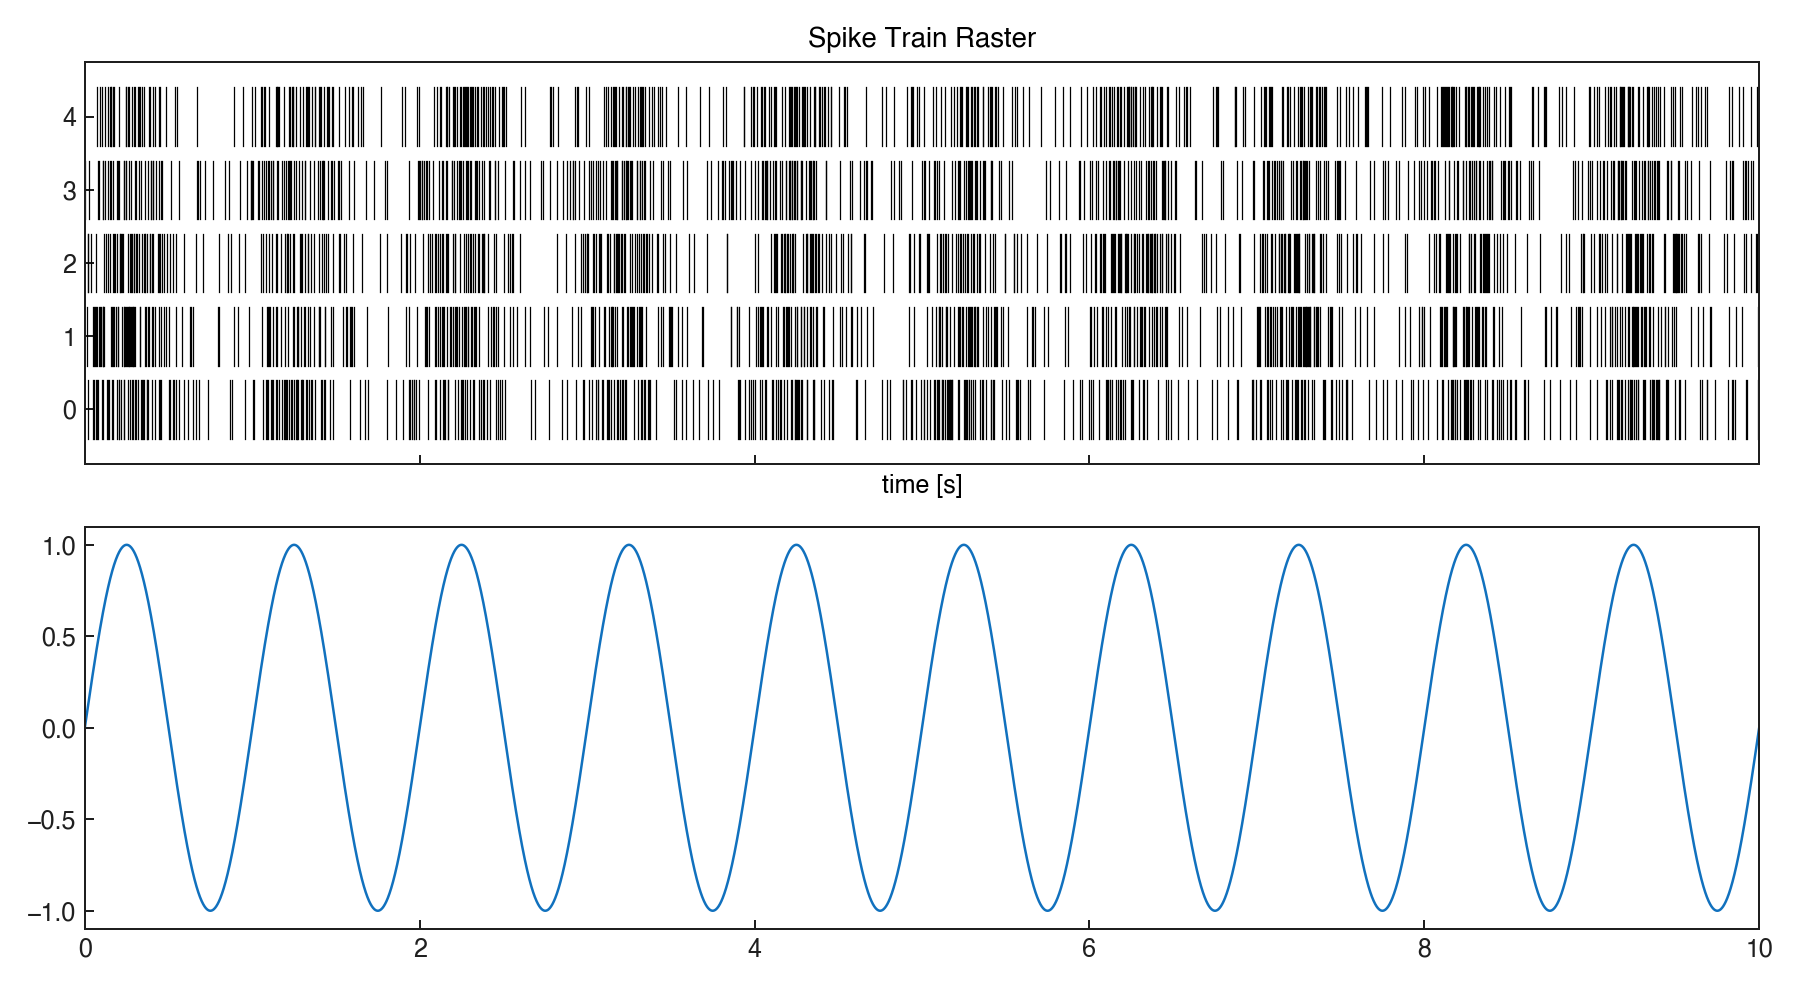
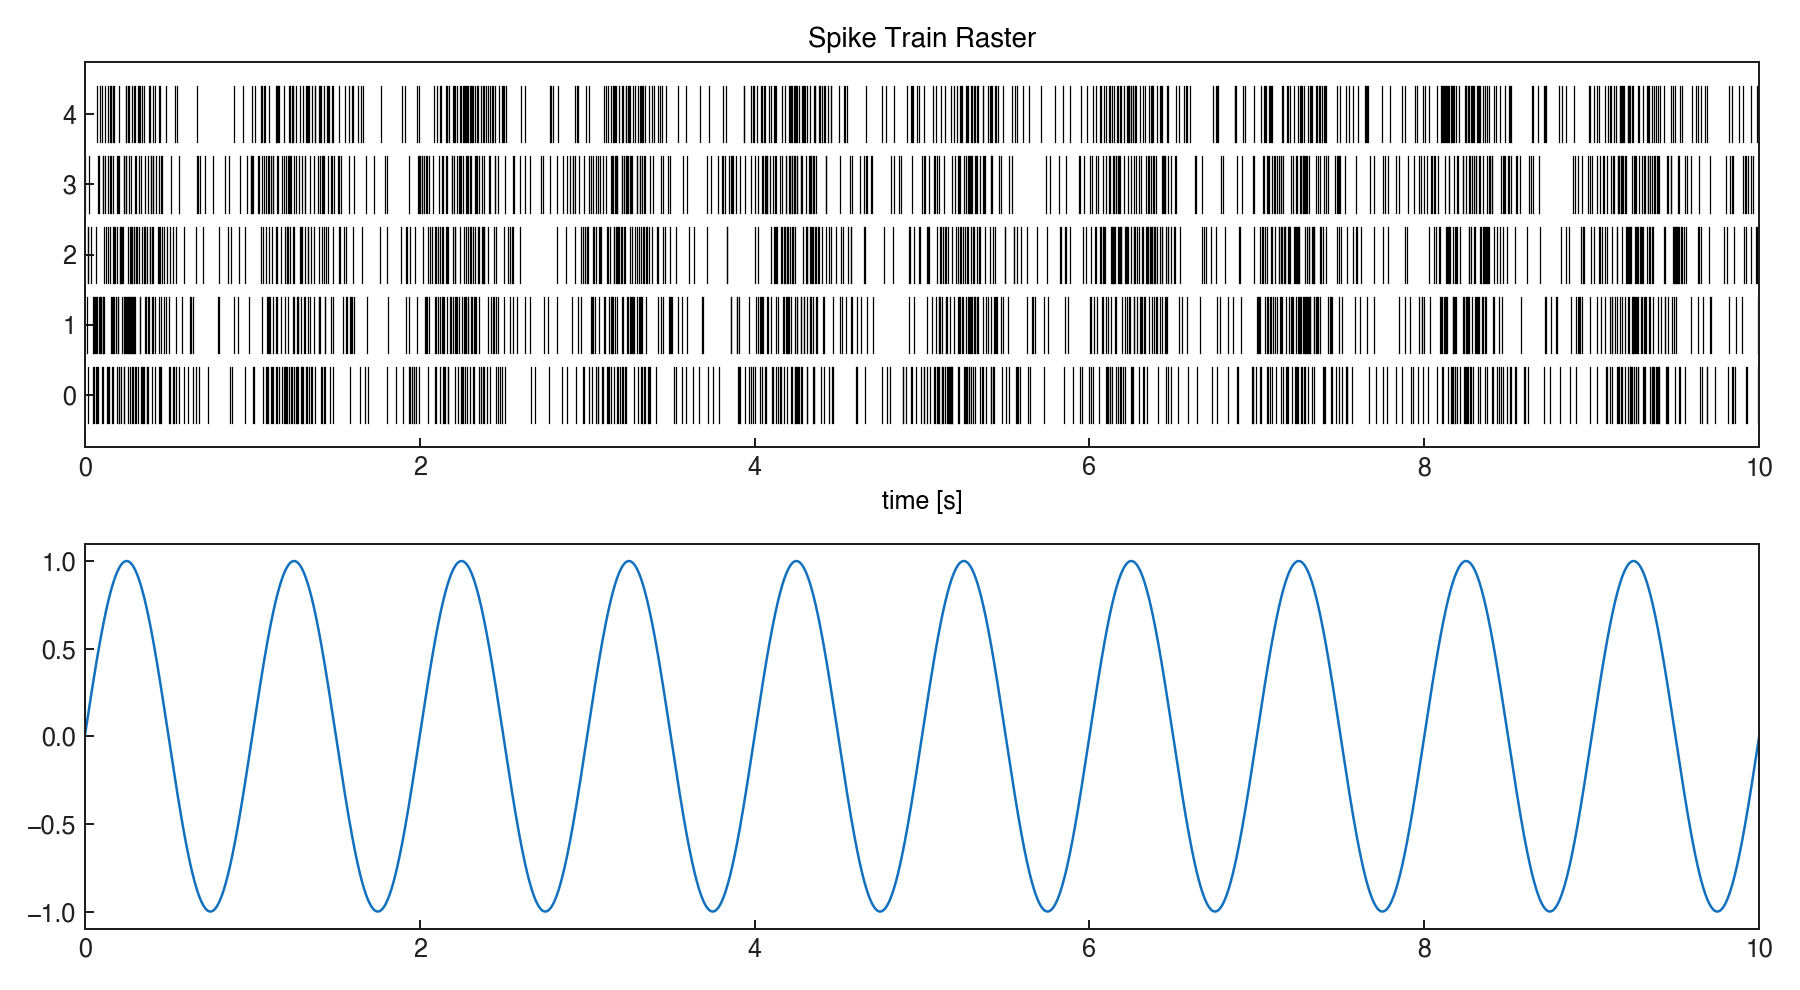
feat(parity): v8 iter 36 — restore PPSimExample to 100% structure parity
V8 Iter 36 of 38. PPSimExample structure score was 27% on the v8
branch — the v7 iter-31 alignment push had explicitly deferred this
topic ("requires deeper alignment"), so the regression was pre-existing
rather than introduced by a later regen.

## Root cause

PPSimExample.m relies heavily on MATLAB Publish bare-``%%`` cell
markers to break a single logical step into multiple typesetting cells
(sample-path generation, the three TrialConfig literals, the
ConfigColl + Analysis.RunAnalysisForAllNeurons finale). These untitled
MATLAB sections have no `# SECTION N: <title>` mirror in the Python
notebook (the notebook groups them under the parent titled cell — the
documented convention of the structure-diff tool).

The structure-diff tool *does* define `_merge_untitled_into_previous`
to fold these small typesetting cells into the preceding titled
section, but the function was never wired into `diff_topic`. Enabling
it globally was tried (`tools/parity/code_structure_diff.py`) and
regressed 12+ other topics whose notebooks were authored against the
raw section indices. Reverted.

## Fix

Per-topic exemption-only change. Added 7 new call-name exemptions to
`parity/code_structure_exemptions.yml` for PPSimExample covering every
call site that lives inside one of the orphan untitled MATLAB sections:
`sin`, `subplot`, `simulateCIF`, `TrialConfig`, `ConfigColl`,
`RunAnalysisForAllNeurons`, `Covariate`. Each exemption documents that
[…]

diff --git a/docs/notebook_galleries/README.md b/docs/notebook_galleries/README.md
@@ -11,8 +11,10 @@ MATLAB-helpfile port) rather than substantive plots — those are marked.
 | Notebook | Figures | Substantive | Source |
 |---|---|---|---|
 | [`AnalysisExamples`](AnalysisExamples/) | 4 | yes | [`notebooks/AnalysisExamples.ipynb`](../../notebooks/AnalysisExamples.ipynb) |
+| [`AnalysisExamples2`](AnalysisExamples2/) | 4 | yes | [`notebooks/AnalysisExamples2.ipynb`](../../notebooks/AnalysisExamples2.ipynb) |
 | [`CovCollExamples`](CovCollExamples/) | 2 | yes | [`notebooks/CovCollExamples.ipynb`](../../notebooks/CovCollExamples.ipynb) |
 | [`CovariateExamples`](CovariateExamples/) | 2 | yes | [`notebooks/CovariateExamples.ipynb`](../../notebooks/CovariateExamples.ipynb) |
+| [`DecodingExample`](DecodingExample/) | 6 | yes | [`notebooks/DecodingExample.ipynb`](../../notebooks/DecodingExample.ipynb) |
 | [`DecodingExampleWithHist`](DecodingExampleWithHist/) | 2 | yes | [`notebooks/DecodingExampleWithHist.ipynb`](../../notebooks/DecodingExampleWithHist.ipynb) |
 | [`EventsExamples`](EventsExamples/) | 4 | yes | [`notebooks/EventsExamples.ipynb`](../../notebooks/EventsExamples.ipynb) |
 | [`ExplicitStimulusWhiskerData`](ExplicitStimulusWhiskerData/) | 9 | yes | [`notebooks/ExplicitStimulusWhiskerData.ipynb`](../../notebooks/ExplicitStimulusWhiskerData.ipynb) |
@@ -28,6 +30,7 @@ MATLAB-helpfile port) rather than substantive plots — those are marked.
 | [`TrialExamples`](TrialExamples/) | 6 | yes | [`notebooks/TrialExamples.ipynb`](../../notebooks/TrialExamples.ipynb) |
 | [`ValidationDataSet`](ValidationDataSet/) | 12 | yes | [`notebooks/ValidationDataSet.ipynb`](../../notebooks/ValidationDataSet.ipynb) |
 | [`mEPSCAnalysis`](mEPSCAnalysis/) | 5 | yes | [`notebooks/mEPSCAnalysis.ipynb`](../../notebooks/mEPSCAnalysis.ipynb) |
+| [`nSTATPaperExamples`](nSTATPaperExamples/) | 29 | yes | [`notebooks/nSTATPaperExamples.ipynb`](../../notebooks/nSTATPaperExamples.ipynb) |
 | [`nSpikeTrainExamples`](nSpikeTrainExamples/) | 7 | yes | [`notebooks/nSpikeTrainExamples.ipynb`](../../notebooks/nSpikeTrainExamples.ipynb) |
 | [`nstCollExamples`](nstCollExamples/) | 5 | yes | [`notebooks/nstCollExamples.ipynb`](../../notebooks/nstCollExamples.ipynb) |
 